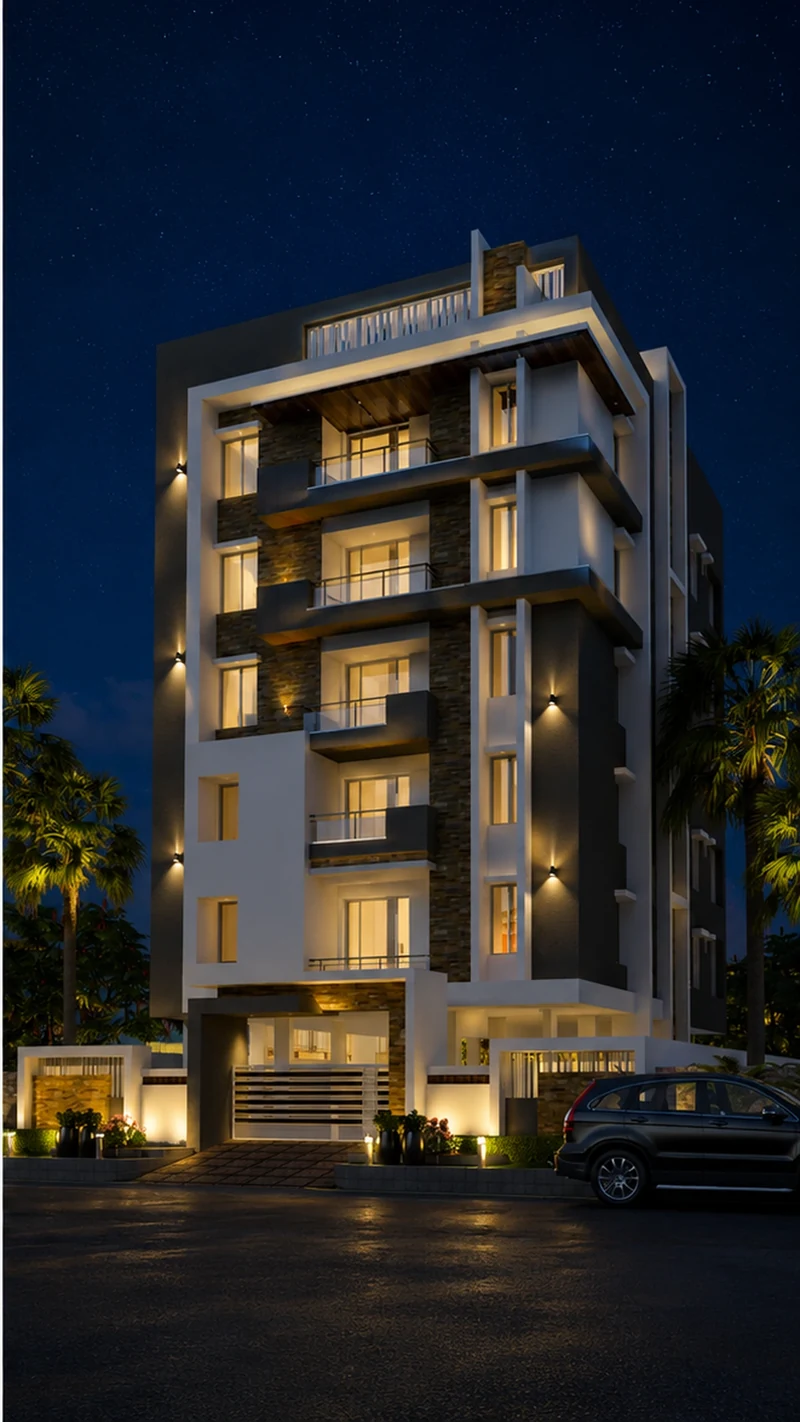
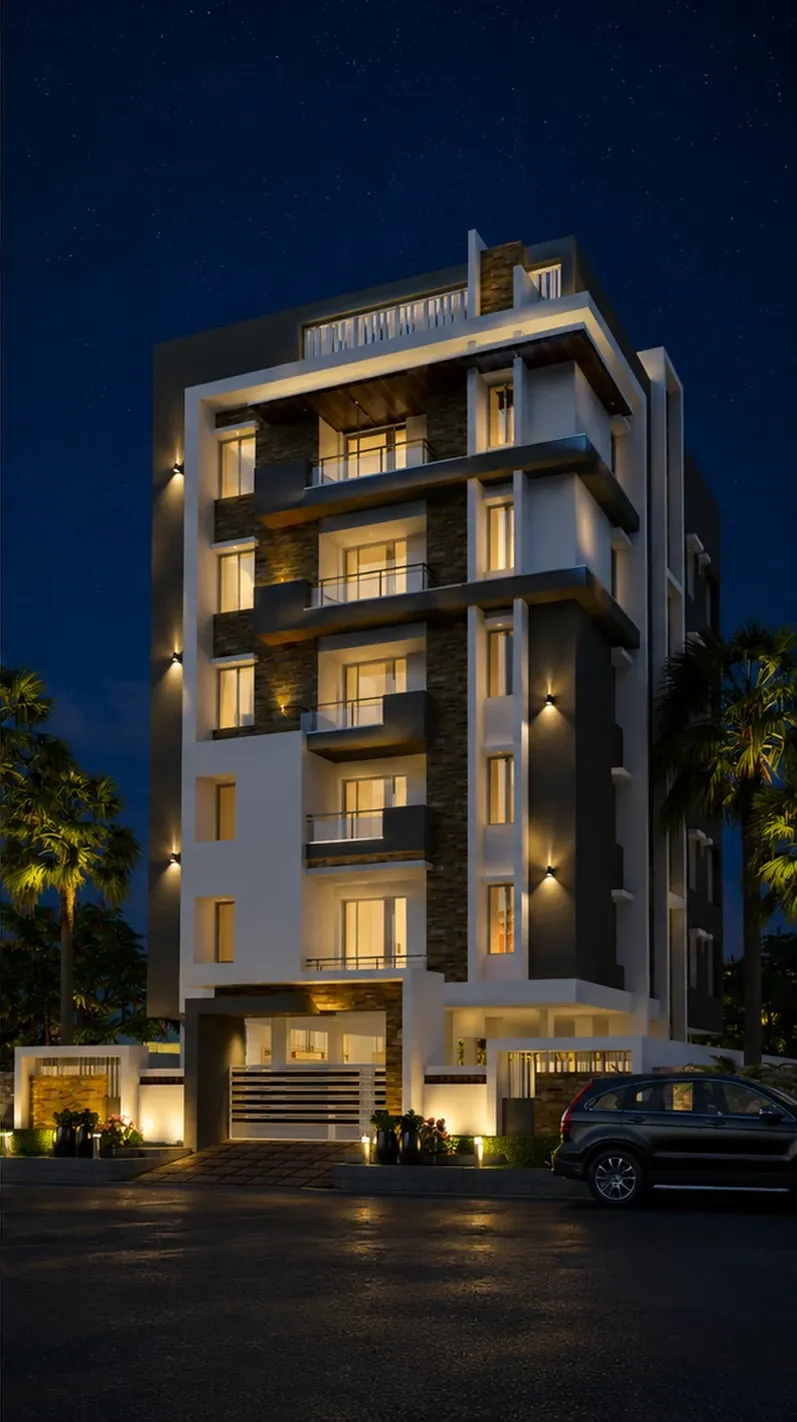
**Stats Overflow + Avasa Line + Rate Presets — complete** - The "1,90,905" Total SFT Delivered figure now scales down gracefully on small phones and sits fully inside its card — verified by measurement at both 390px and 360px widths, with the whole statistics grid checked and zero page overflow. - T

diff --git a/frontend/src/pages/EmiCalculator.jsx b/frontend/src/pages/EmiCalculator.jsx
@@ -174,14 +174,35 @@ export default function EmiCalculator() {
               onChange={setAmount}
               testid="emi-amount"
             />
-            <SliderField
-              label="Interest Rate (P.A.)"
-              suffix="%"
-              value={rate}
-              limits={LIMITS.rate}
-              onChange={setRate}
-              testid="emi-rate"
-            />
+            <div className="space-y-4">
+              <SliderField
+                label="Interest Rate (P.A.)"
+                suffix="%"
+                value={rate}
+                limits={LIMITS.rate}
+                onChange={setRate}
+                testid="emi-rate"
+              />
+              <div data-testid="emi-rate-presets" className="flex flex-wrap items-center gap-2">
+                <span className="text-[9px] uppercase tracking-[0.25em] text-concrete/70 mr-1">Quick rates</span>
+                {[8.5, 9, 9.5].map((r) => (
+                  <button
+                    key={r}
+                    type="button"
+                    data-testid={`emi-rate-preset-${String(r).replace(".", "-")}`}
+                    aria-pressed={rate === r}
+                    onClick={() => setRate(r)}
+                    className={`px-3.5 py-1.5 border font-display font-semibold text-[10px] tracking-[0.15em] tabular-nums transition-colors duration-300 ${
+                      rate === r
+                        ? "border-ember bg-ember/10 text-ember"
+                        : "border-white/15 text-bone/50 hover:text-bone hover:border-bone/40"
+                    }`}
+                  >
+                    {r}%
+                  </button>
+                ))}
+              </div>
+            </div>
             <div>
               <div className="flex items-center justify-between gap-6 mb-2">
                 <span className="text-[9px] uppercase tracking-[0.25em] text-concrete/70">Tenure in</span>

diff --git a/frontend/src/pages/Home.jsx b/frontend/src/pages/Home.jsx
@@ -244,9 +244,9 @@ const Stats = () => {
           <div
             key={s.label}
             data-testid={s.testid || `stat-${s.label.toLowerCase()}`}
-            className={`px-6 md:px-10 py-12 md:py-20 ${i > 0 ? "border-l border-line" : ""} ${i > 1 ? "border-t lg:border-t-0 border-line" : ""} ${i === 3 ? "md:border-l-0 lg:border-l" : ""}`}
+            className={`min-w-0 px-5 md:px-10 py-12 md:py-20 ${i > 0 ? "border-l border-line" : ""} ${i > 1 ? "border-t lg:border-t-0 border-line" : ""} ${i === 3 ? "md:border-l-0 lg:border-l" : ""}`}
           >
-            <p className="font-display font-bold tracking-tighter text-5xl md:text-6xl lg:text-7xl text-bone tabular-nums">
+            <p className="font-display font-bold tracking-tighter text-[clamp(1.5rem,7.6vw,3rem)] md:text-6xl lg:text-7xl text-bone tabular-nums whitespace-nowrap">
               {typeof s.value === "number" ? (
                 <CountUp value={s.value} pad={s.pad} />
               ) : (

diff --git a/frontend/src/data/projects.js b/frontend/src/data/projects.js
@@ -150,7 +150,7 @@ const MY_DREAM_AVASA = {
   elevationModes: {
     day: "/assets/projects/my-dream-avasa/elevation-day.webp",
     night: "/assets/projects/my-dream-avasa/elevation-night.webp",
-    width: 2250,
+    width: 2242,
   },
   siteLocation: {
     url: "https://www.google.com/maps?q=G8MF+PXG+MY+Dream+Avasa%2C+Sai+Ambica+Colony%2C+Ameenpur%2C+Miyapur%2C+Hyderabad%2C+Telangana+502032&ftid=0x3bcb8d007573cfe7%3A0x35268543df407da9",

diff --git a/memory/CHANGELOG.md b/memory/CHANGELOG.md
@@ -913,3 +913,8 @@ Dated implementation log. Core requirements: PRD.md. Pending work: ROADMAP.md.
 - Mobile menu compacted: links text-4xl→text-3xl, py-3→py-2, gap-2→gap-1, CTA pt-8→pt-6 — full menu + CTA ends at 645px on a 390x844 phone.
 - EMI page mobile compaction: page pt-24, header tightened (eyebrow mb-4, H1 8.5vw, description hidden on mobile), field spacing space-y-7, label rows mb-4, value inputs text-lg, results panel p-6 with Monthly EMI text-4xl, tighter bar/rows/note. Result: all 3 inputs + Monthly EMI figure visible within one 390x844 screen (result top at 813px). Desktop layout unchanged.
 - Verified: share text content exact, menu fits, map strings present, desktop EMI unchanged, zero console errors.
+
+## 2026-08-10 — Stats Mobile Overflow Fix + Avasa Line Fix + EMI Rate Presets (DONE, self-tested)
+1. Stats band (Home.jsx): numbers now scale responsively (clamp(1.5rem,7.6vw,3rem) on mobile, md:text-6xl lg:text-7xl unchanged), whitespace-nowrap, cells px-5/min-w-0 — "1,90,905" fits inside its card at 390px AND 360px with zero page horizontal overflow; labels wrap cleanly. Verified numerically (number 106px in 195px cell).
+2. Avasa white vertical line: root-caused to the ASSET itself — elevation-night.webp had an 8px near-white strip baked into its left edge (brightness ~240 vs ~44 overall). Cropped the strip from elevation-night.webp (2250→2242) and elevation-night-800.webp (800→797); updated elevationModes.width to 2242. Day/cover variants were clean (broad sky, no line). Card edge now clean.
+3. EMI rate presets: "Quick rates" chips 8.5% / 9% / 9.5% under the interest slider (emi-rate-preset-*); one tap sets the rate, active chip highlighted ember. Verified: 9.5% → ₹46,607, 8.5% → ₹43,391.

diff --git a/memory/ROADMAP.md b/memory/ROADMAP.md
@@ -12,6 +12,7 @@ Prioritized backlog. Completed work lives in CHANGELOG.md.
 - **Site Progress Updates**: dated construction progress galleries for each ongoing project — DO NOT implement until the user shares real site photos
 
 ## Recently completed (see CHANGELOG.md)
+- 2026-08-10: Stats card mobile overflow fixed + Avasa white line removed from asset + EMI quick-rate preset chips (self-tested, measured at 360/390px)
 - 2026-08-10: Map "Expected 2027" labels + EMI WhatsApp share button + compact mobile menu + single-screen mobile EMI calculator (self-tested)
 - 2026-08-10: Company email (adminmydreamprojects@gmail.com) across contact/footer + premium EMI Calculator page with nav + project-page Calculate EMI CTAs (iteration_40, 100% pass)
 - 2026-08-09: Founder photo containers hard-locked identical 352×440 (3 breakpoints verified)
